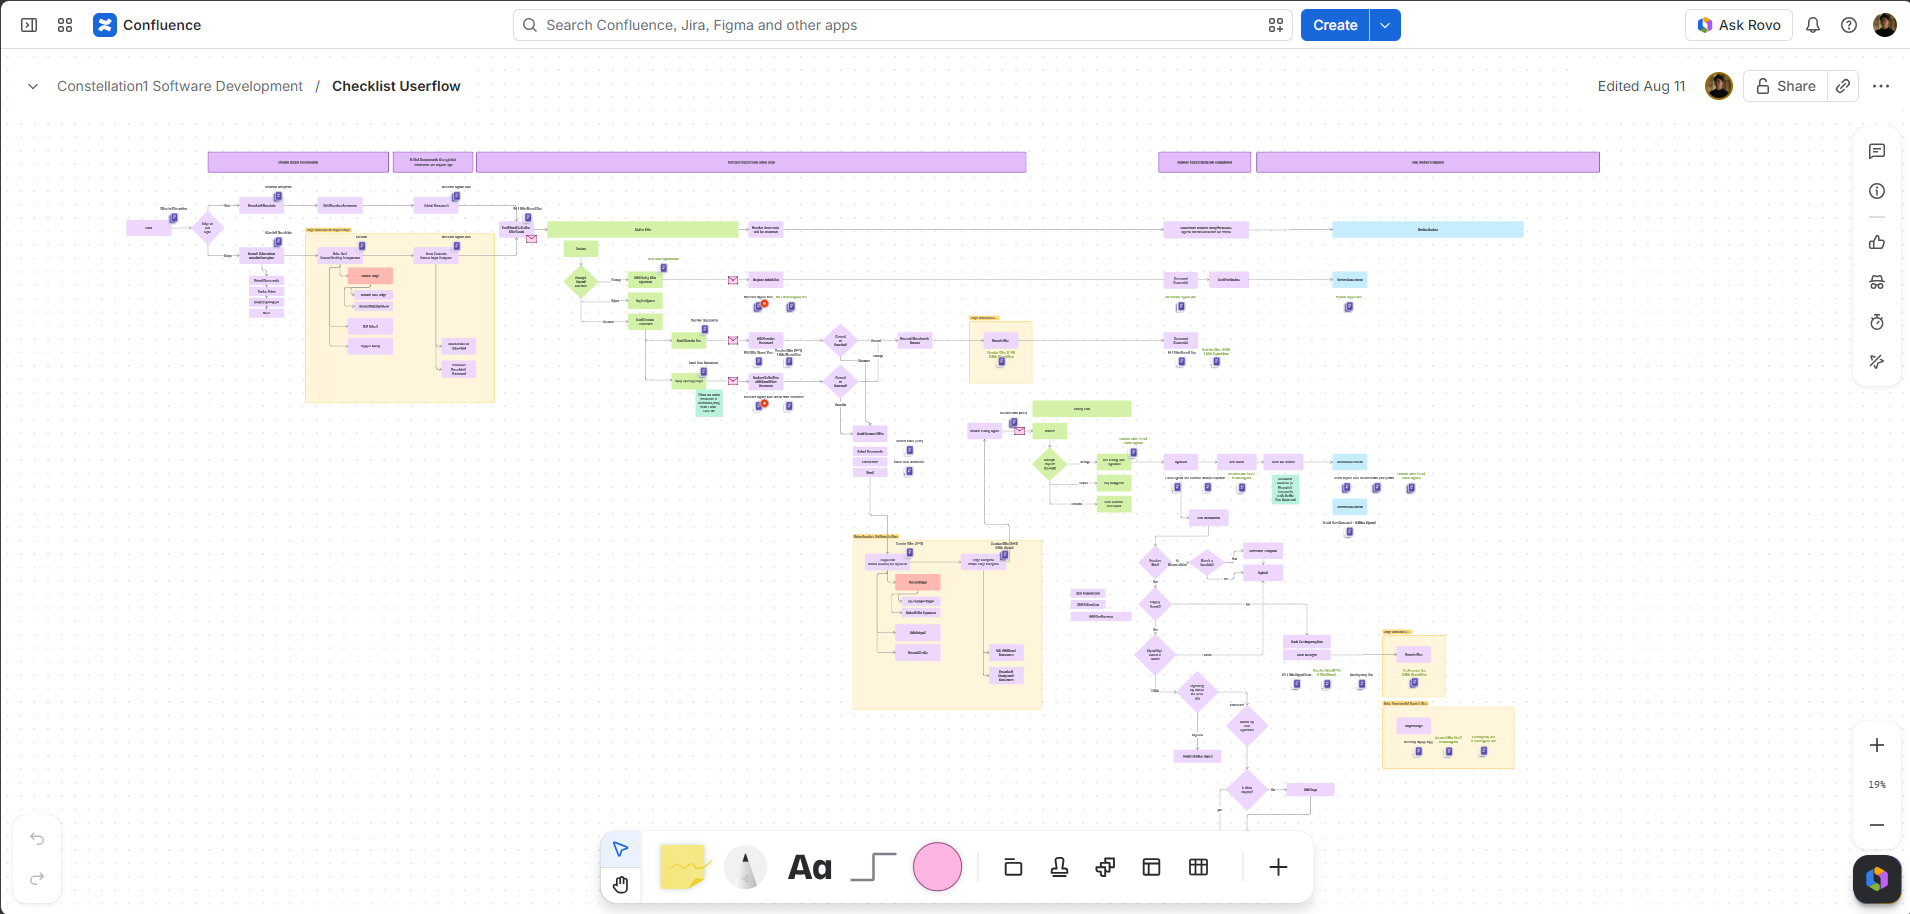
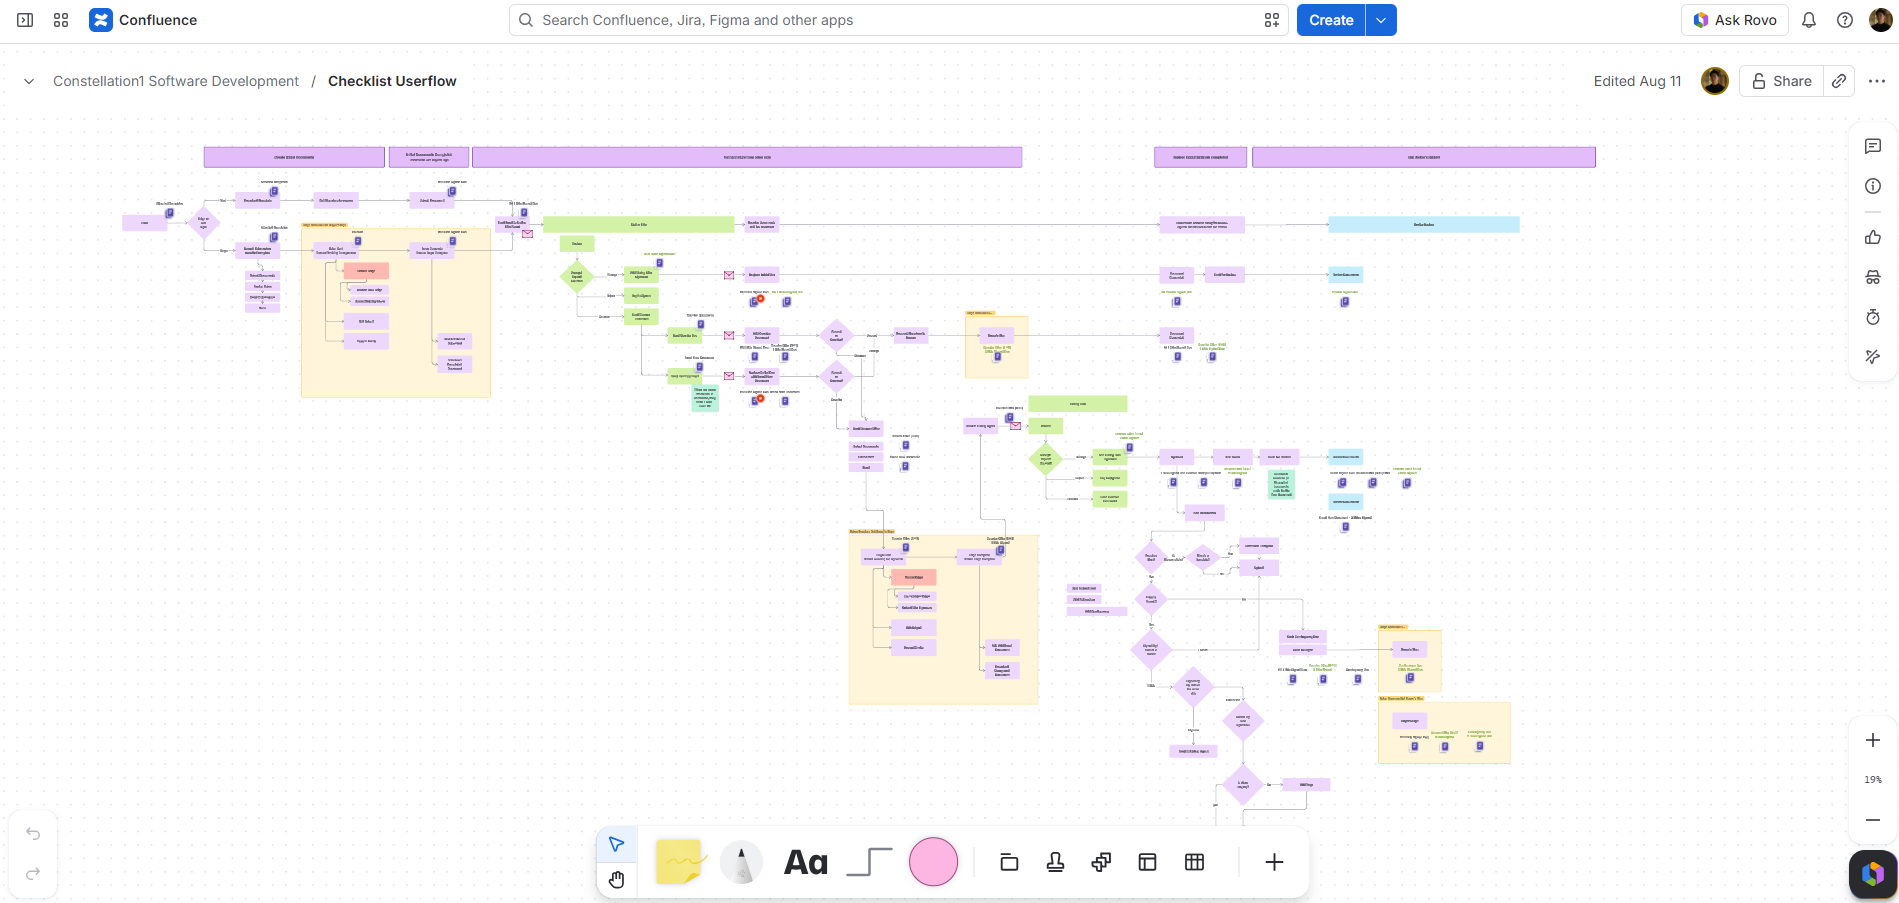
Add Transaction Management diagrams and split the Design section
- Add case-study images: separation, checklist_after, modal_before,
  modal_after; update the cropped taskflow_zoomout.
- Split the single Design section into "Design: Checklist Table" and
  "Design: Document Management Modal".
- Keep the Problem sentence inline with the following text, and place the
  document-modal Problem paragraph above modal_before.

diff --git a/src/components/works/TransactionManagement.js b/src/components/works/TransactionManagement.js
@@ -66,28 +66,39 @@ const TransactionManagement = () => {
            </div>
 
            <div className='divMedium'>
-                    <h2>Design</h2>
+                    <h2>Design: Checklist Table</h2>
                     <p>
-                    <strong>Table Design</strong>
+                    <strong>Problem: task and document are separate concepts but the UI made it difficult for users to distinguish the difference.</strong> Brokers provide a set of tasks to agents. Each task asks for documents to be submitted. Agents can also launch a signature session using the templates provided by states.
                     </p>
-                    <p>
-                    <strong>Problem: task and document are separate concepts but the UI made it difficult for users to distinguish the difference.</strong>
-                    </p>
-                    <p>
-                    Brokers provide a set of tasks to agents. Each task asks for documents to be submitted. Agents can also launch a signature session using the templates provided by states.
-                    </p>
+                    <img
+                        src={require("../../image/work_TransactionManagement/separation.png")}
+                        alt="Separating task-level and document-level information"
+                    />
                     <p>
                     Although necessary, this structure made it hard to understand the different types of status: Task status communicates the review status, such as rejected, approved, and expired. Launching a signature for this task adds more information such as signing status, sent, signed, expired. I reviewed the information architecture to distinguish task level information and call-to-actions and document level information and CTAs. This process led to consolidating all the document related information to the document column and document management screen.
                     </p>
-                    <p>
-                    <strong>Document Management View</strong>
-                    </p>
+                    <img
+                        src={require("../../image/work_TransactionManagement/checklist_after.png")}
+                        alt="Task checklist after the redesign"
+                    />
+           </div>
+
+           <div className='divMedium'>
+                    <h2>Design: Document Management Modal</h2>
                     <p>
                     <strong>Problem: the system does not accommodate multiple documents per task.</strong> As negotiation goes, documents are accumulated over time such as original document, addendum, counter documents, and executed document. In their workflow, there are several times agents need to act on a group of documents, emailing agents for signature, submitting for review, downloading.
                     </p>
+                    <img
+                        src={require("../../image/work_TransactionManagement/modal_before.png")}
+                        alt="Document modal before the redesign"
+                    />
                     <p>
                     Therefore, <strong>I created a concept of folder and timeline view.</strong> Agents can accumulate documents in the folder. If there's a need to start from the beginning, they can create a new folder so they can separate documents from previous activities. The timeline view enables both brokers and agents to track the updates made to this folder over time as agents upload documents, in timeline view, launch design or archive documents.
                     </p>
+                    <img
+                        src={require("../../image/work_TransactionManagement/modal_after.png")}
+                        alt="Document modal after the redesign"
+                    />
            </div>
 
            <div className='divMedium'>
